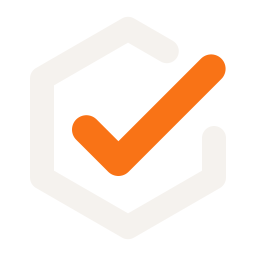
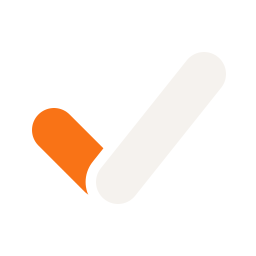
Simplify the mark to a check in two flat strokes, orange and ink, cut apart where they meet; the hexagon mark stays in assets/brand/backup-hexagon

Changed region(s): [[0.125, 0.1875, 0.9062, 0.75]]

diff --git a/apps/web/src/components/brand/mark.ts b/apps/web/src/components/brand/mark.ts
@@ -1,16 +1,18 @@
 /**
- * The Attestra mark on a 64-unit grid: a hexagon drawn as one ink stroke, open at the upper
- * right, and an accent check that leaves through the opening. Flat, two colours, no gradients,
- * so it reads the same at 16 px and on paper. icon.svg and tools/make_brand.sh carry the same
- * paths (a unit test keeps icon.svg in step).
+ * The Attestra mark on a 64-unit grid: a check in two flat strokes, the short one in the accent and
+ * the long one in ink, slid apart by a thin cut where they meet. Two colours, no gradients, so it
+ * reads the same at 16 px and on paper. The cut is a mask (any background) on the site and in
+ * icon.svg, and a halo in the ground colour where the ground is known (share cards, app icons).
+ * icon.svg and tools/make_brand.sh carry the same geometry; a unit test keeps icon.svg in step.
  */
 export const MARK = {
   viewBox: '0 0 64 64',
-  hex: 'M41.7 12.8L32 7.2L10.5 19.6L10.5 44.4L32 56.8L53.5 44.4L53.5 34.5',
-  check: 'M21.6 32.4L29.6 40.4L52.8 17.2',
-  hexWidth: 6,
-  checkWidth: 7.2,
+  short: 'M13.5 32.5L25 44',
+  long: 'M29.5 45.5L51 18.5',
+  width: 11,
+  /** The cut between the strokes, on each side of the long one. */
+  gap: 2.6,
 } as const;
 
-/** Ink of the hexagon on light and dark grounds (the site's --fg), and the check (brand-500). */
+/** Ink of the long stroke on light and dark grounds (the site's --fg), and the short one (brand-500). */
 export const MARK_COLORS = { inkLight: '#1c1917', inkDark: '#f5f2ee', check: '#f97316' } as const;

diff --git a/apps/web/src/components/brand/Logo.tsx b/apps/web/src/components/brand/Logo.tsx
@@ -1,12 +1,20 @@
+import { useId } from 'react';
 import { MARK, MARK_COLORS } from './mark';
 
-/** The Attestra mark: an open hexagon in the text colour and a check leaving through it. */
+/** The Attestra mark: a check in two strokes, accent and text colour, cut apart where they meet. */
 export function LogoMark({ size = 28, className = '' }: { size?: number; className?: string }) {
+  const cut = `cut${useId().replace(/:/g, '')}`;
   return (
     <svg width={size} height={size} viewBox={MARK.viewBox} className={`text-fg ${className}`} aria-hidden="true">
-      <g fill="none" strokeLinecap="round" strokeLinejoin="round">
-        <path d={MARK.hex} stroke="currentColor" strokeWidth={MARK.hexWidth} />
-        <path d={MARK.check} stroke={MARK_COLORS.check} strokeWidth={MARK.checkWidth} />
+      <defs>
+        <mask id={cut} maskUnits="userSpaceOnUse" x="0" y="0" width="64" height="64">
+          <rect width="64" height="64" fill="#fff" />
+          <path d={MARK.long} stroke="#000" strokeWidth={MARK.width + 2 * MARK.gap} strokeLinecap="round" />
+        </mask>
+      </defs>
+      <g fill="none" strokeLinecap="round" strokeWidth={MARK.width}>
+        <path d={MARK.short} stroke={MARK_COLORS.check} mask={`url(#${cut})`} />
+        <path d={MARK.long} stroke="currentColor" />
       </g>
     </svg>
   );

diff --git a/apps/web/src/app/brand.tsx b/apps/web/src/app/brand.tsx
@@ -2,13 +2,14 @@
 
 import { MARK, MARK_COLORS } from '@/components/brand/mark';
 
-/** The mark for dark grounds (share cards, app icons). */
-export function MarkSvg({ size, ink = MARK_COLORS.inkDark }: { size: number; ink?: string }) {
+/** The mark for a known ground (share cards, app icons): the cut is a halo in the ground colour. */
+export function MarkSvg({ size, ink = MARK_COLORS.inkDark, ground = '#0f0b08' }: { size: number; ink?: string; ground?: string }) {
   return (
     <svg width={size} height={size} viewBox={MARK.viewBox}>
-      <g fill="none" strokeLinecap="round" strokeLinejoin="round">
-        <path d={MARK.hex} stroke={ink} strokeWidth={MARK.hexWidth} />
-        <path d={MARK.check} stroke={MARK_COLORS.check} strokeWidth={MARK.checkWidth} />
+      <g fill="none" strokeLinecap="round">
+        <path d={MARK.short} stroke={MARK_COLORS.check} strokeWidth={MARK.width} />
+        <path d={MARK.long} stroke={ground} strokeWidth={MARK.width + 2 * MARK.gap} />
+        <path d={MARK.long} stroke={ink} strokeWidth={MARK.width} />
       </g>
     </svg>
   );

diff --git a/apps/web/test/mark.test.ts b/apps/web/test/mark.test.ts
@@ -4,11 +4,13 @@ import { describe, expect, it } from 'vitest';
 import { MARK, MARK_COLORS } from '../src/components/brand/mark';
 
 describe('the mark', () => {
-  it('icon.svg draws the same paths, widths and colours as the components', () => {
+  it('icon.svg draws the same strokes, width, cut and colours as the components', () => {
     const svg = readFileSync(join(__dirname, '../src/app/icon.svg'), 'utf8');
     expect(svg).toContain(`viewBox="${MARK.viewBox}"`);
-    expect(svg).toContain(`stroke-width="${MARK.hexWidth}" d="${MARK.hex}"`);
-    expect(svg).toContain(`stroke-width="${MARK.checkWidth}" d="${MARK.check}"`);
+    expect(svg).toContain(`d="${MARK.short}"`);
+    expect(svg.match(new RegExp(`d="${MARK.long}"`, 'g'))).toHaveLength(2);
+    expect(svg).toContain(`stroke-width="${MARK.width}"`);
+    expect(svg).toContain(`stroke-width="${MARK.width + 2 * MARK.gap}"`);
     for (const c of Object.values(MARK_COLORS)) expect(svg).toContain(c);
   });
 });

diff --git a/apps/web/src/app/apple-icon.tsx b/apps/web/src/app/apple-icon.tsx
@@ -7,7 +7,7 @@ export const contentType = 'image/png';
 export default function AppleIcon() {
   return new ImageResponse(
     <div style={{ width: '100%', height: '100%', display: 'flex', alignItems: 'center', justifyContent: 'center', background: '#1c1917' }}>
-      <MarkSvg size={124} />
+      <MarkSvg size={124} ground="#1c1917" />
     </div>,
     size,
   );

diff --git a/assets/brand/README.md b/assets/brand/README.md
@@ -1,11 +1,13 @@
 # Brand
 
-- The mark is a hexagon drawn as one ink stroke, open at the upper right, with an orange check that leaves through the opening: a claim that is checked and sealed, and proof that it holds outside the system that issued it.
+- The mark is a check drawn in two flat strokes, the short one in orange and the long one in ink, slid apart by a thin cut where they meet: a claim, checked, in two parts that hold each other up.
 - It is flat and two-coloured on a 64-unit grid, so it reads the same at 16 px, on paper and on either colour scheme.
 - `mark.svg` is the site's `apps/web/src/app/icon.svg`, whose ink follows the viewer's colour scheme.
 - `mark-light.svg` and `mark-light-<size>.png` are for light grounds (ink `#1c1917`); `mark-dark.svg` and `mark-dark-<size>.png` are for dark grounds (ink `#f5f2ee`).
 - `tile.svg` and `tile-<size>.png` are the app icon: the dark mark on a rounded ink square.
 - The check is `#f97316` everywhere; the wordmark is "Attestra" with "ra" in the accent colour (`#ea580c` on light, `#fb923c` on dark).
 - The geometry lives in `apps/web/src/components/brand/mark.ts`; a unit test keeps `icon.svg` in step with it.
+
+- `backup-hexagon/` keeps the previous mark (an open hexagon with a check) as an alternative.
 
 Regenerate with `tools/make_brand.sh`, then the README images with `tools/.venv/bin/python -m tools.make_readme_art`.
